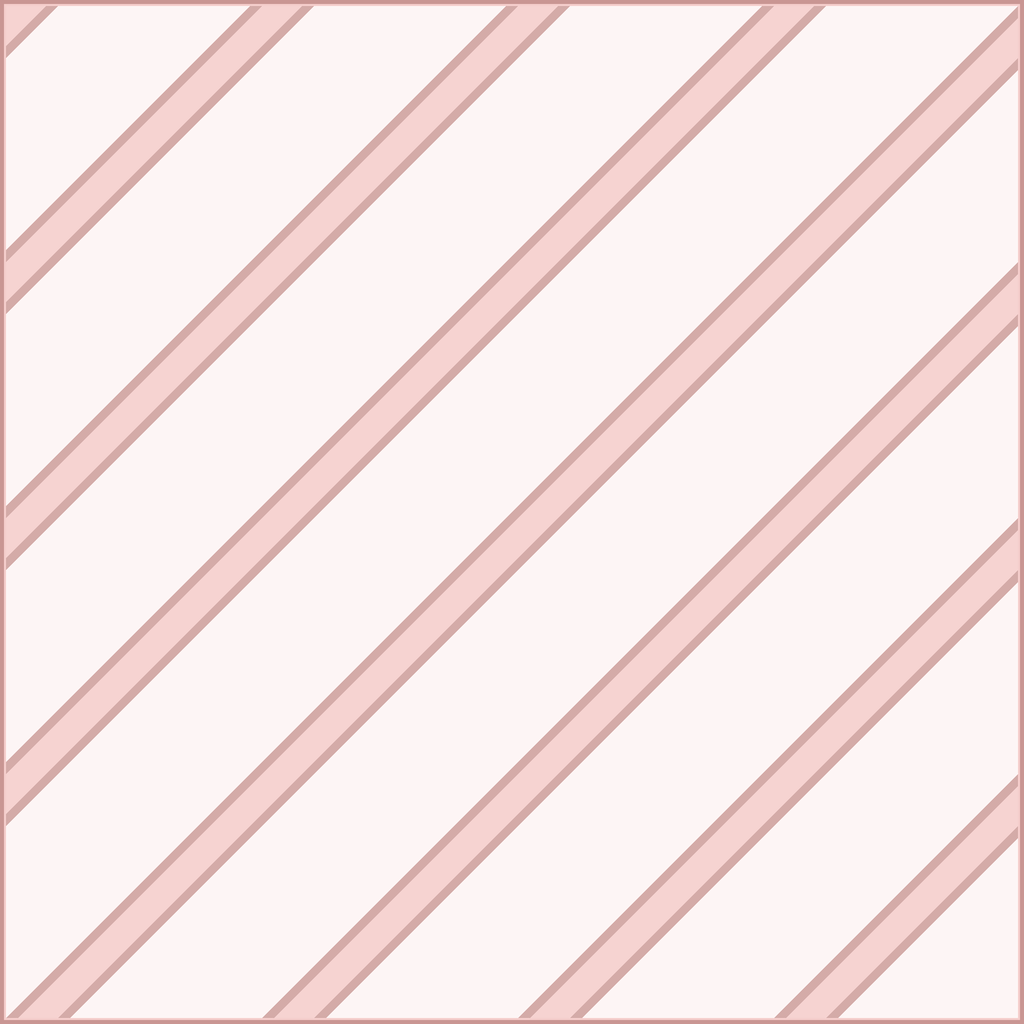
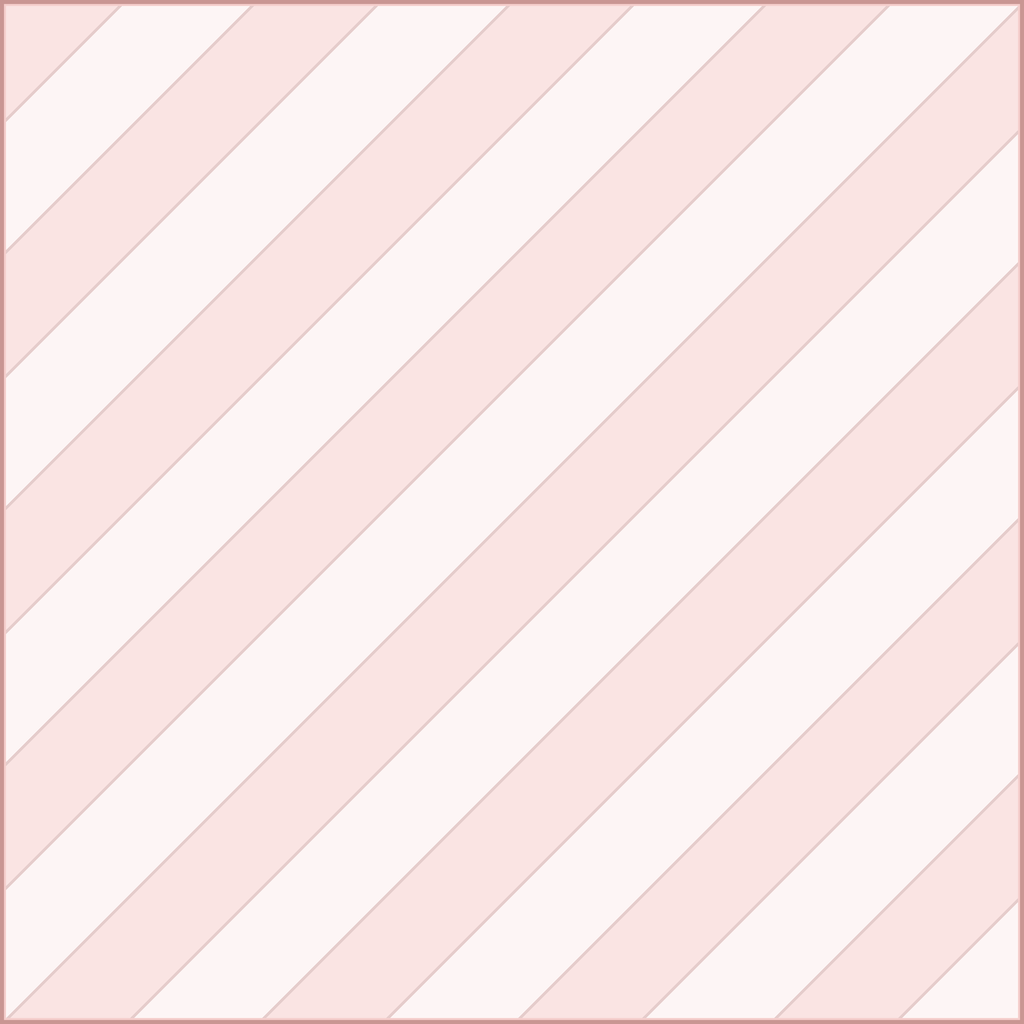
overlays: stripes twice as wide, half as dense, thin rims
Ribbon 64 -> 128, so a stripe is 3 tiles and stripes and gaps come out the
same width. Coverage doubles to 51.5%, paid for by roughly halving the
stripe alphas (wilderness 255/255 -> 170/130, trail 190/125 -> 125/90,
rampart's base pair 96/54 -> 58/33): the same red, spread twice as wide at
half the density. Mean alpha lands at 67.1 against 64.6 before, so the
total ink is unchanged -- the pattern just got broader and more
see-through, which is the half that survives minification.

EDGE 12 -> 4, and no longer scaled with RIBBON. The rim is not a design
element with a proportion to preserve; it exists to stop the stripe
bleeding into the terrain underneath and to give the diagonal something to
anti-alias against, and both jobs are done by a few pixels no matter how
wide the stripe gets. Scaling it just ate the stripe's interior with dark
trim.

Stripe-to-gap contrast across the zoom range in the playtest save (cells
at 110/80/55/40 px on screen) is now 63.4/63.9/61.3/62.3 -- flat. It was
54.9/49.6/42.1/35.5 before any of this, washing out as you zoomed out.

diff --git a/tools/gen_overlays.py b/tools/gen_overlays.py
@@ -6,7 +6,7 @@ pattern reads as "fortified, not yet fully yours" and now marks RAMPART;
 wilderness escalates the same artwork to fully opaque red stripes,
 unmistakable at any zoom):
 
-    wilderness  red, stripes 100% opaque   (hard no)
+    wilderness  red, the widest stripes   (hard no)
     trail       orange at ~half strength   (transit corridor)
     rampart     red, the original pattern  (one rung from Deed)
     deed        —                          (no blocker, fully clear)
@@ -32,8 +32,9 @@ SIZE = 1024
 # against the zoom range in a real save (cells landing at 40-110 px on
 # screen, so 1.7-4.6 px per tile):
 #
-#     ribbon 16 / period 128   stripe 0.38 tiles ->  0.6-1.5 px   aliases
-#     ribbon 64 / period 256   stripe 1.50 tiles ->  2.5-6.0 px   holds
+#     ribbon  16 / period 128   stripe 0.38 tiles ->  0.6-1.5 px   aliases
+#     ribbon  64 / period 256   stripe 1.50 tiles ->  2.5-6.0 px   holds
+#     ribbon 128 / period 256   stripe 3.00 tiles -> 5.0-13.8 px   current
 #
 # At sub-pixel width, whether a screen pixel lands on a stripe or a gap
 # comes down to zoom phase, not to the art: the stripes read bold at one
@@ -47,11 +48,19 @@ SIZE = 1024
 #
 # Both numbers must divide SIZE so the diagonal pattern stays seamless
 # across adjacent same-state cells; 256 gives four periods per cell.
+# Ribbon equals half the period, so stripes and gaps come out the same
+# width. Ink coverage doubles to 50% at this width, which is paid for by
+# roughly halving the stripe alphas below: the same amount of red, spread
+# twice as wide at half the density, which is what survives minification.
 PERIOD = 256
-RIBBON = 64
-# The stripe's darker rim, held at the same 18.75% of ribbon width as the
-# old 3-of-16 so the stripes keep their shape.
-EDGE = 12
+RIBBON = 128
+# The stripe's darker rim, and deliberately NOT scaled with RIBBON. It is
+# not a design element with a proportion to preserve -- it exists to stop
+# the stripe bleeding into the terrain underneath and to give the diagonal
+# something to anti-alias against. Both jobs are done by a few pixels
+# regardless of how wide the stripe itself gets, and scaling it up just
+# eats the stripe's interior with dark trim.
+EDGE = 4
 BORDER = 4
 INNER = 2
 
@@ -62,12 +71,15 @@ INNER = 2
 # report: "as if anti-aliasing isn't happening" — it wasn't).
 SS = 4
 
-# Base alphas at full strength (wilderness).
+# Base alphas at full strength (wilderness). The ribbon pair is halved from
+# what it was at ribbon 64, because ribbon 128 covers twice the area -- see
+# RIBBON. Only rampart reads these two directly; wilderness and trail
+# override both below.
 A = {
     "border": 120,
     "inner": 60,
-    "ribbon_edge": 96,
-    "ribbon_core": 54,
+    "ribbon_edge": 58,
+    "ribbon_core": 33,
     "wash": 12,
 }
 
@@ -102,7 +114,7 @@ def darken(c, f=0.66):
 # sharing everything else. The weights encode the ladder: the more a rung
 # forbids, the louder it argues.
 #
-#   wilderness  opaque       a hard no, unmissable at any zoom
+#   wilderness  ~half        a hard no, unmissable at any zoom
 #   trail       ~half        visible over any terrain, still see-through
 #   rampart     base (~1/3)  the quietest marked rung, one step from Deed
 #   deed        —            no blocker, no overlay: clear ground is owned
@@ -112,9 +124,9 @@ def darken(c, f=0.66):
 # ribbon width for anti-aliasing had made it fainter still.
 RED = COLORS["wilderness"]
 STATES = {
-    "wilderness": (RED, darken(RED), 1.00, {"ribbon_edge": 255, "ribbon_core": 255}),
+    "wilderness": (RED, darken(RED), 1.00, {"ribbon_edge": 170, "ribbon_core": 130}),
     "trail": (COLORS["trail"], darken(COLORS["trail"]), 0.90,
-              {"ribbon_edge": 190, "ribbon_core": 125, "inner": 90}),
+              {"ribbon_edge": 125, "ribbon_core": 90, "inner": 90}),
     "rampart": (RED, darken(RED), 1.00, {}),
 }
 
